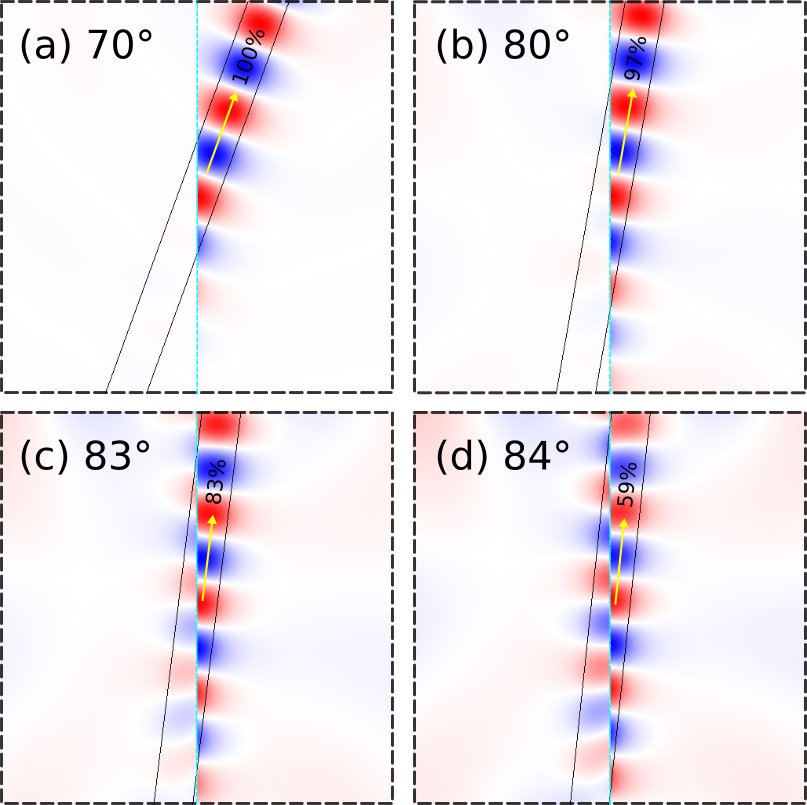
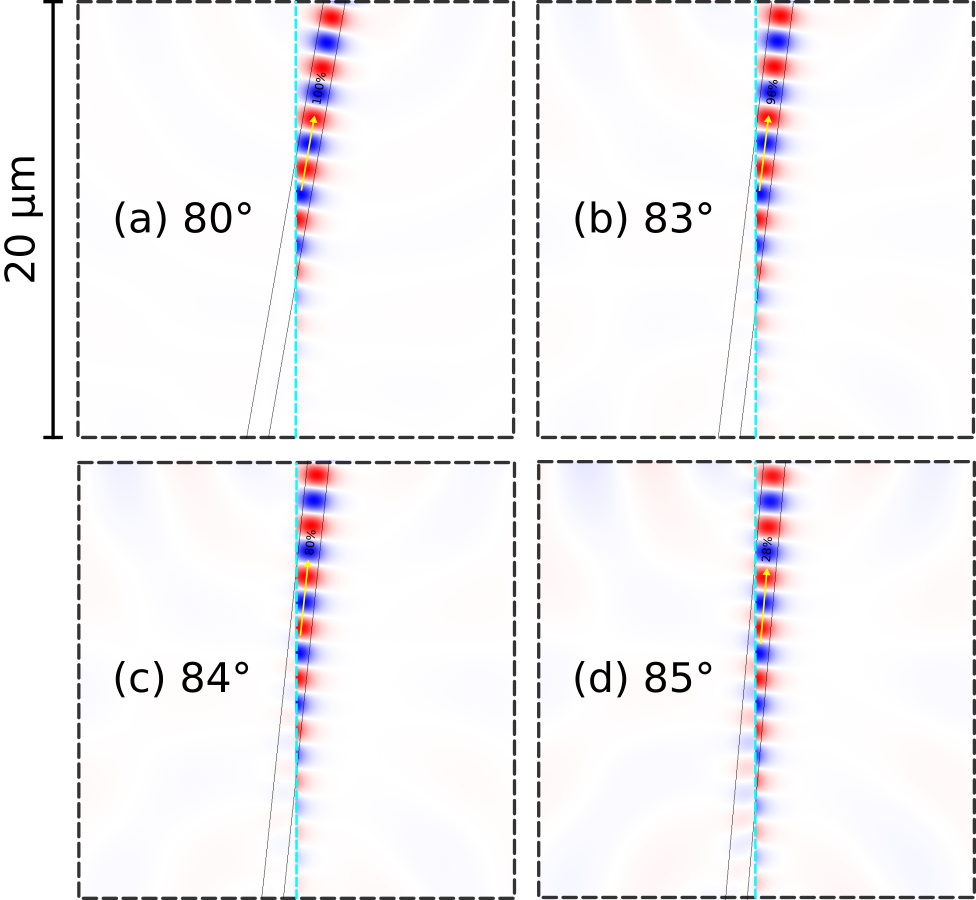
show results for larger cell

diff --git a/doc/docs/Python_Tutorials/Eigenmode_Source.md b/doc/docs/Python_Tutorials/Eigenmode_Source.md
@@ -110,7 +110,13 @@ There are numerical dispersion artifacts due to the FDTD spatial and temporal di
 
 We can demonstrate that the total power in a waveguide with *arbitrary* orientation — computed using two equivalent methods via `get_fluxes` and [mode decomposition](../Mode_Decomposition.md) — can be computed by a single flux plane oriented along the $y$ direction: thanks to [Poynting's theorem](https://en.wikipedia.org/wiki/Poynting%27s_theorem), the flux through any plane crossing a lossless waveguide is the same, regardless of whether the plane is oriented perpendicular to the waveguide. Furthermore, the eigenmode source is normalized in such a way as to produce the same power regardless of the waveguide orientation — in consequence, the flux values for mode **A** of the single-mode case for rotation angles of 0°, 20°, and 40° are 1111.280794, 1109.565028, and 1108.759159, within 0.2% (discretization error) of one another. Note that the Poynting flux could have been normalized to unity by setting the `EigenModeSource`/`Source` object parameter `amplitude=1/src.fourier_transform(fsrc)` where `fsrc=0.15` and `src=mp.GaussianSource(fsrc,fwidth=0.2*fsrc)`.
 
-Finally, we demonstrate that as long as the line source intersects the waveguide *and* `eig_kpoint` is not nearly parallel to the direction of the line source, the mode can be properly launched. As shown in the field profiles below for the single-mode waveguide, there does not seem to be any noticeable distortion in the launched mode as the waveguide approaches glancing incidence to the source plane up to 80°, where the total power in the forward-propagating mode is 97%. Note that the line source spans the entire length of the cell extending into the PML region (not shown). In this example, the maximum rotation angle is ~84°, where the total power drops to 59% and the backward-propagating fields are clearly visible. Due to discretization errors, increasing the size of the cell will *not* improve results beyond 84°, unless you also increase resolution.  As the waveguide mode approaches glancing incidence, sensitivity to discretization errors increases (because the mode varies rapidly with frequency on a glancing-angle cross-section).  For waveguide angles much beyond 45° you probably want to simply change the orientation of the line source by 90°.
+Finally, we demonstrate that as long as the line source intersects the waveguide *and* `eig_kpoint` is not nearly parallel to the direction of the line source, the mode can be properly launched. As shown in the field profiles below for the single-mode waveguide, there does not seem to be any noticeable distortion in the launched mode as the waveguide approaches glancing incidence to the source plane up to 80°, where the total power in the forward-propagating mode is 97%. Note that the line source spans the entire length of the cell extending into the PML region (not shown). In this example where the cell length is 10 μm (or 10X the width of the waveguide), the maximum rotation angle is ~84°, where the power drops to 59% and backward-propagating fields are clearly visible.
+
+<center>
+![](../images/waveguide_rotation_glancing_small.png)
+</center>
+
+Increasing the size of the cell improves results at the expense of a larger simulation. The field profiles shown below are for a cell where the length has been doubled to 20 μm. The waveguide power at 84° increases from 59% to 80%. However, as the waveguide mode approaches glancing incidence, sensitivity to discretization errors increases because the mode varies rapidly with frequency on a glancing-angle cross-section. For waveguide angles much beyond 45° you probably want to simply change the orientation of the line source by 90°.
 
 <center>
 ![](../images/waveguide_rotation_glancing.png)

diff --git a/doc/docs/Scheme_Tutorials/Eigenmode_Source.md b/doc/docs/Scheme_Tutorials/Eigenmode_Source.md
@@ -105,7 +105,13 @@ There are numerical dispersion artifacts due to the FDTD spatial and temporal di
 
 We demonstrate that the total power in a waveguide with *arbitrary* orientation — computed using two equivalent methods via `get_fluxes` and [mode decomposition](../Mode_Decomposition.md) — can be computed by a single flux plane oriented along the $y$ direction: thanks to [Poynting's theorem](https://en.wikipedia.org/wiki/Poynting%27s_theorem), the flux through any plane crossing a lossless waveguide is the same, regardless of whether the plane is oriented perpendicular to the waveguide. Furthermore, the eigenmode source is normalized in such a way as to produce the same power regardless of the waveguide orientation — in consequence, the flux values for mode **A** of the single-mode case for rotation angles of 0°, 20°, and 40° are 1111.280794, 1109.565028, and 1108.759159, within 0.2% (discretization error) of one another.
 
-Finally, we demonstrate that as long as the line source intersects the waveguide *and* `eig-kpoint` is not nearly parallel to the direction of the line source, the mode can be properly launched. As shown in the field profiles below for the single-mode waveguide, there does not seem to be any noticeable distortion in the launched mode as the waveguide approaches glancing incidence to the source plane up to 80° where the total power in the forward-propagating mode is 97%. Note that the line source spans the entire length of the cell extending into the PML region (not shown). In this example, the maximum rotation angle is ~84° where the total power drops to 59% and the backward-propagating fields are clearly visible. Due to discretization errors, increasing the size of the cell will *not* improve results beyond 84°. This is because the convergence properties of the eigenmode solver MPB worsen as `eig-kpoint`, which changes *one* of its lattice vectors, becomes parallel with the direction of the line source.
+Finally, we demonstrate that as long as the line source intersects the waveguide *and* `eig-kpoint` is not nearly parallel to the direction of the line source, the mode can be properly launched. As shown in the field profiles below for the single-mode waveguide, there does not seem to be any noticeable distortion in the launched mode as the waveguide approaches glancing incidence to the source plane up to 80°, where the total power in the forward-propagating mode is 97%. Note that the line source spans the entire length of the cell extending into the PML region (not shown). In this example where the cell length is 10 μm (or 10X the width of the waveguide), the maximum rotation angle is ~84°, where the power drops to 59% and backward-propagating fields are clearly visible.
+
+<center>
+![](../images/waveguide_rotation_glancing_small.png)
+</center>
+
+Increasing the size of the cell improves results at the expense of a larger simulation. The field profiles shown below are for a cell where the length has been doubled to 20 μm. The waveguide power at 84° increases from 59% to 80%. However, as the waveguide mode approaches glancing incidence, sensitivity to discretization errors increases because the mode varies rapidly with frequency on a glancing-angle cross-section. For waveguide angles much beyond 45° you probably want to simply change the orientation of the line source by 90°.
 
 <center>
 ![](../images/waveguide_rotation_glancing.png)
